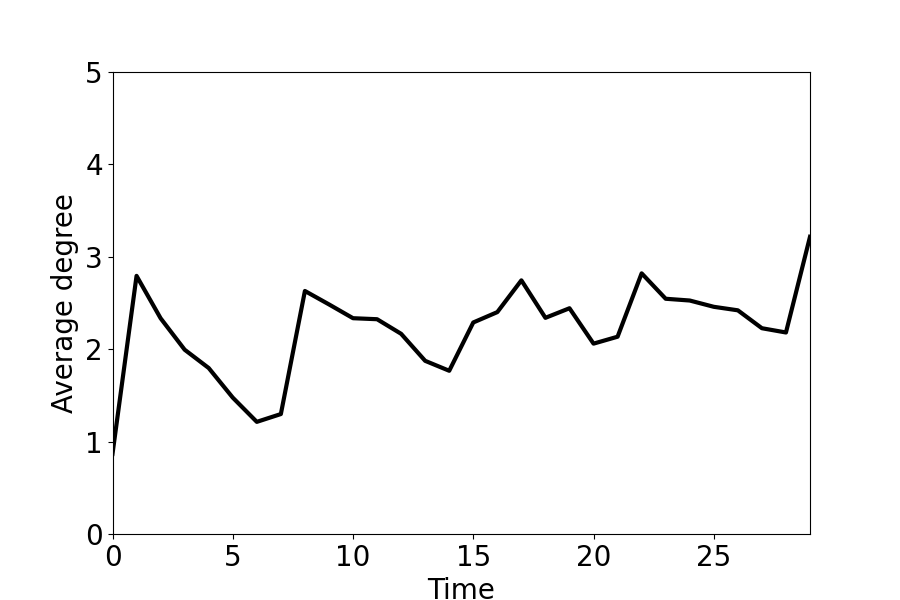
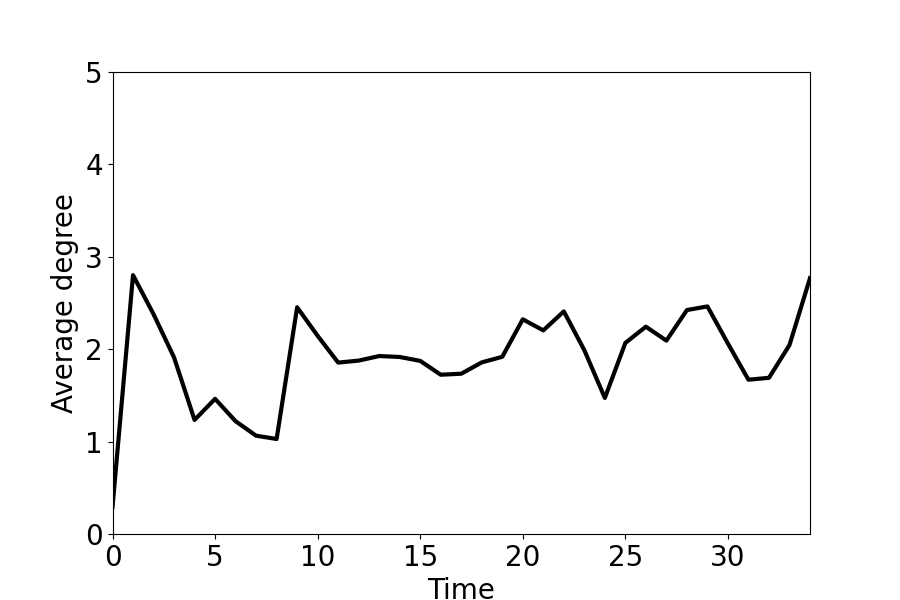
update

diff --git a/examples/test.py b/examples/test.py
@@ -10,7 +10,7 @@ start_time = time.time()
 data_path = '/network/scratch/r/razieh.shirzadkhani/'
 dataset = tgx.data.mooc(root=data_path)
 # dataset = tgx.data.tgb("tgbl-wiki")
-data = tgx.read_edgelist(data=dataset, discretize=True, intervals=21)
+data = tgx.read_edgelist(data=dataset, discretize=True, intervals=35)
 
 # print(get_index_metrics(train_data, test_data))
 # r = get_reoccurrence(data)
@@ -21,7 +21,7 @@ G = tgx.Graph(data)
 plot_path = "./examples/plots/"
 # tgx.nodes_and_edges_per_ts(G.discrite_graph, plot_path=plot_path , network_name=dataset.name)
 total_nodes = G.number_of_nodes()
-tgx.average_degree_per_ts(G.discrite_graph, total_nodes, plot_path=plot_path, network_name=dataset.name)
+tgx.average_degree_per_ts(G.discrite_graph, total_nodes, plot_path=plot_path, network_name=dataset.name+'1')
 
 # total_nodes = G.number_of_nodes()
 # plot_path = "./examples/plots/"
